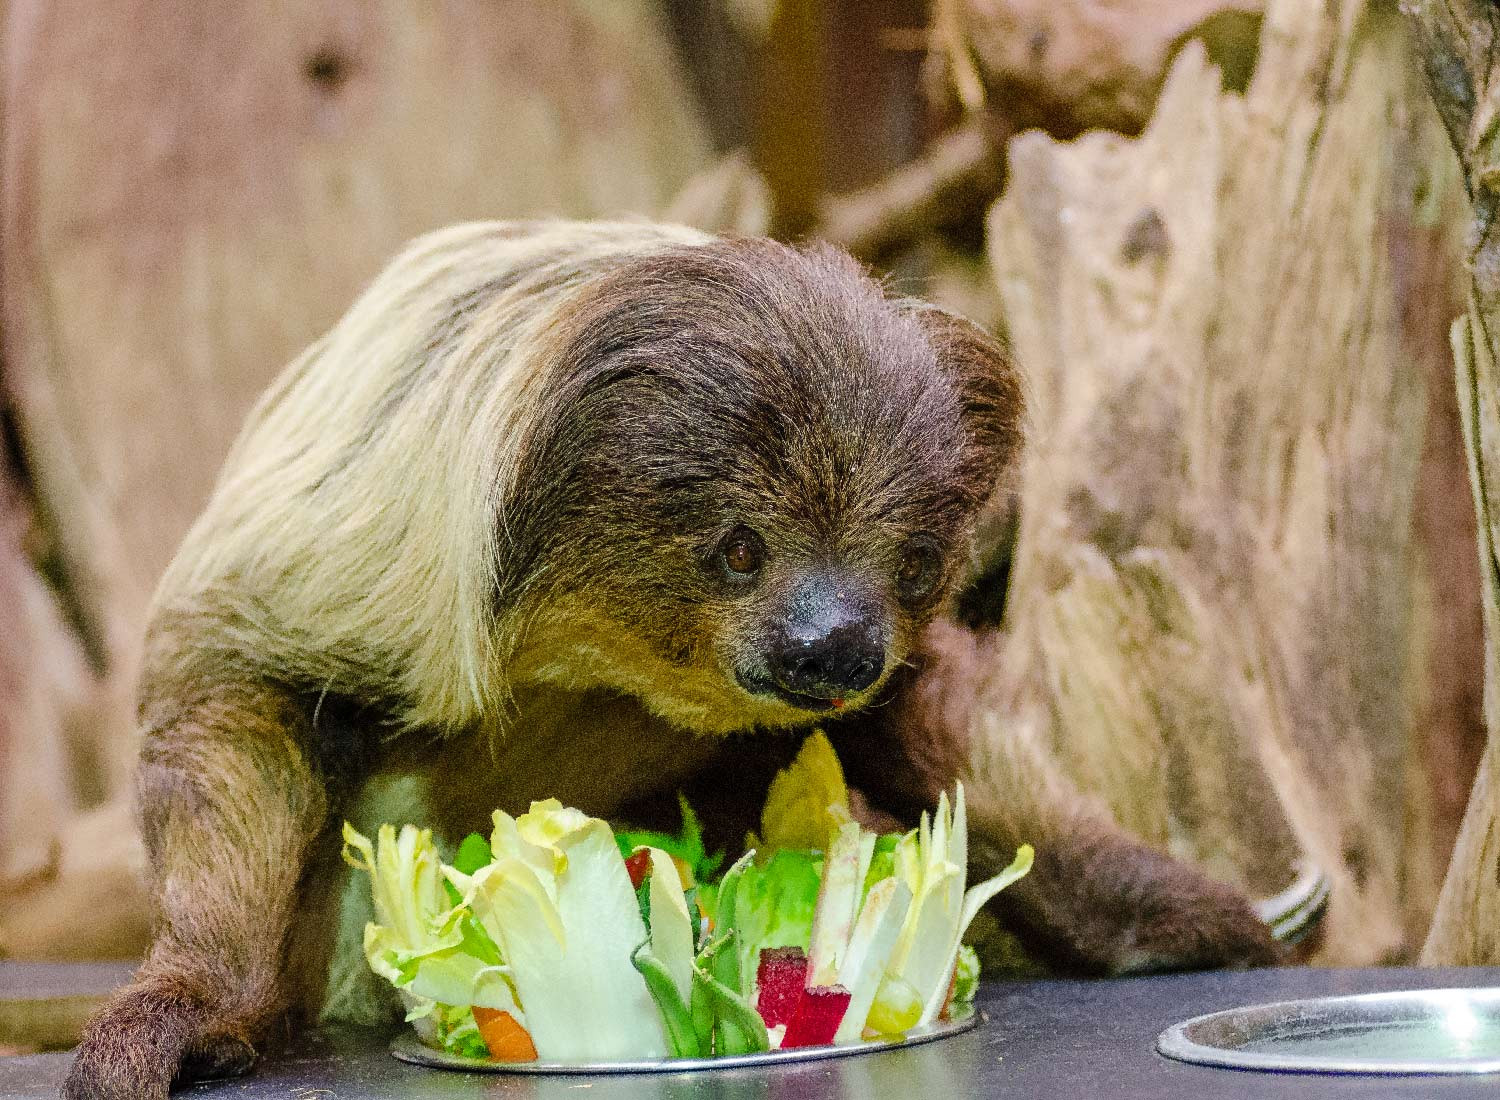
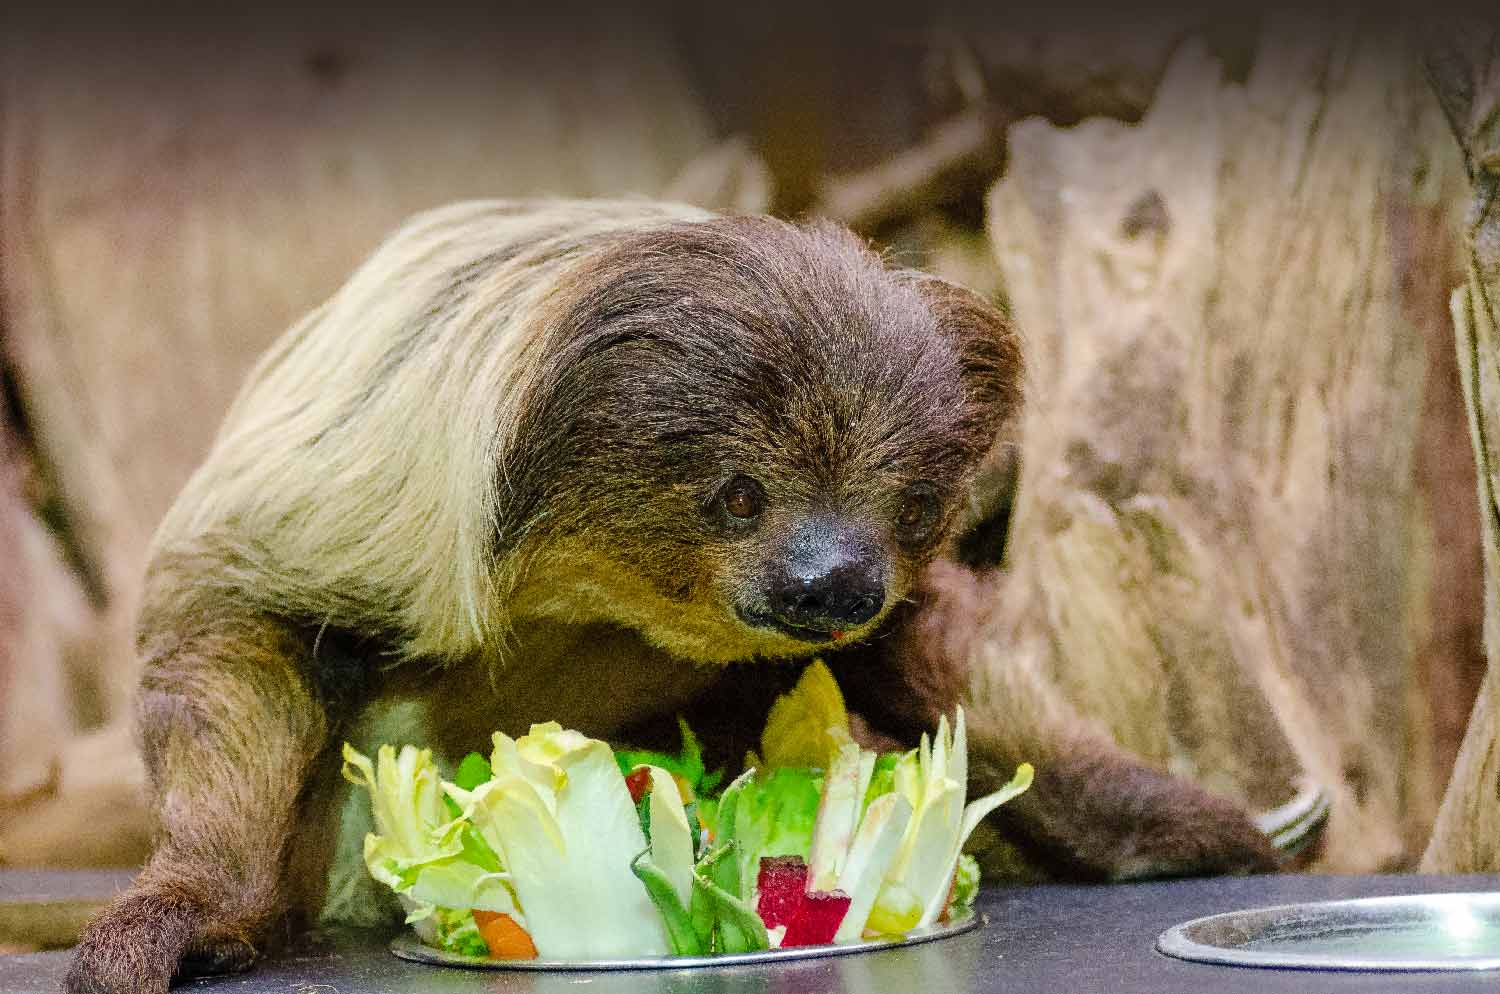
Im getting there

diff --git a/index.html b/index.html
@@ -12,19 +12,25 @@
 <body>
 
   <main>
+    <h1 class="gutter-1-2 yotta">The Mighty Sloth</h1>
+    <hr class="push-1-8">
     <img class="first-img" src="images/mighty-sloth.jpg" alt="">
-    <h1>The Mighty Sloth</h1>
-    <p>Sloths are mammals classified in the families Megalonychidae (two-toed sloths) and Bradypodidae (three-toed sloths), including six extant species. They are named after the capital sin of sloth because they seem slow and lazy at first glance; however, their usual idleness is due to metabolic adaptations for conserving energy.</p>
-    <p>Aside from their surprising speed during emergency flights from predators, other notable traits of sloths include their strong body and their ability to host symbiotic algae on their furs.</p>
-    <figure>
+    <hr class="push-1-8">
+    <p class="pad-t gutter-1-2">Sloths are mammals classified in the families Megalonychidae (two-toed sloths) and Bradypodidae (three-toed sloths), including six extant species. They are named after the capital sin of sloth because they seem slow and lazy at first glance; however, their usual idleness is due to metabolic adaptations for conserving energy.</p>
+    <p class="gutter-1-2">Aside from their surprising speed during emergency flights from predators, other notable traits of sloths include their strong body and their ability to host symbiotic algae on their furs.</p>
+    <div>
+      <hr class="push-1-8">
       <img src="images/sloth2.jpg" alt="">
-      <figcaption>Three-toed sloth featured with an ant-eater, a platypus & armadillos.</figcaption>
-    </figure>
-    <p>They are classified in the order Pilosa because they are related to anteaters, which sport a similar set of specialized claws. Extinct sloth species include many megafaunal ground sloths, some of which attained the size of elephants, as well as a few species of marine sloths. Extant sloths are medium-sized arboreal (tree-dwelling) residents of the jungles of Central and South America.</p>
-    <p>Sloths make good habitats for other organisms, and a single sloth may be home to moths, beetles, cockroaches, fungi, ciliates, and algae.</p>
-    <figure>
-      <img src="images/sloth3.jpg" alt="">
-      <figcaption>https://en.wikipedia.org/wiki/Sloth</figcaption>
+      <p class="caption push-1-4 gutter-1-2 milli">Three-toed sloth featured with an ant-eater, a platypus & armadillos.</p>
+      <hr class="push-1-8">
+    </div>
+    <p class="pad-t gutter-1-2">They are classified in the order Pilosa because they are related to anteaters, which sport a similar set of specialized claws. Extinct sloth species include many megafaunal ground sloths, some of which attained the size of elephants, as well as a few species of marine sloths. Extant sloths are medium-sized arboreal (tree-dwelling) residents of the jungles of Central and South America.</p>
+    <p class="gutter-1-2">Sloths make good habitats for other organisms, and a single sloth may be home to moths, beetles, cockroaches, fungi, ciliates, and algae.</p>
+    <figure class="push-none">
+      <hr class="line push-1-8">
+      <img class="last-img" src="images/sloth3.jpg" alt="">
+      <hr class="push-none">
+      <figcaption class="micro pad-t-1-2 push-1-2 gutter-1-2">https://en.wikipedia.org/wiki/Sloth</figcaption>
     </figure>
   </main>
 

diff --git a/css/main.css b/css/main.css
@@ -1,5 +1,6 @@
 html {
   font-family: Verdana;
+  padding-top: .6em;
 }
 
 img {
@@ -7,6 +8,35 @@ img {
   height: auto;
 }
 
-figcaption {
+h1 {
+  position: absolute;
+  top: 25px;
   font-family: Georgia;
+  color: #fff;
+  text-shadow: 2px 2px #000;
+}
+
+.caption {
+  font-family: Georgia;
+  font-style: italic;
+}
+
+hr {
+  color: red;
+}
+
+figcaption {
+  text-decoration: underline;
+}
+
+@media only screen and (min-width: 38em) {
+
+  .last-img {
+    height: 23em;
+  }
+
+  h1 {
+    top: 29px;
+  }
+
 }
